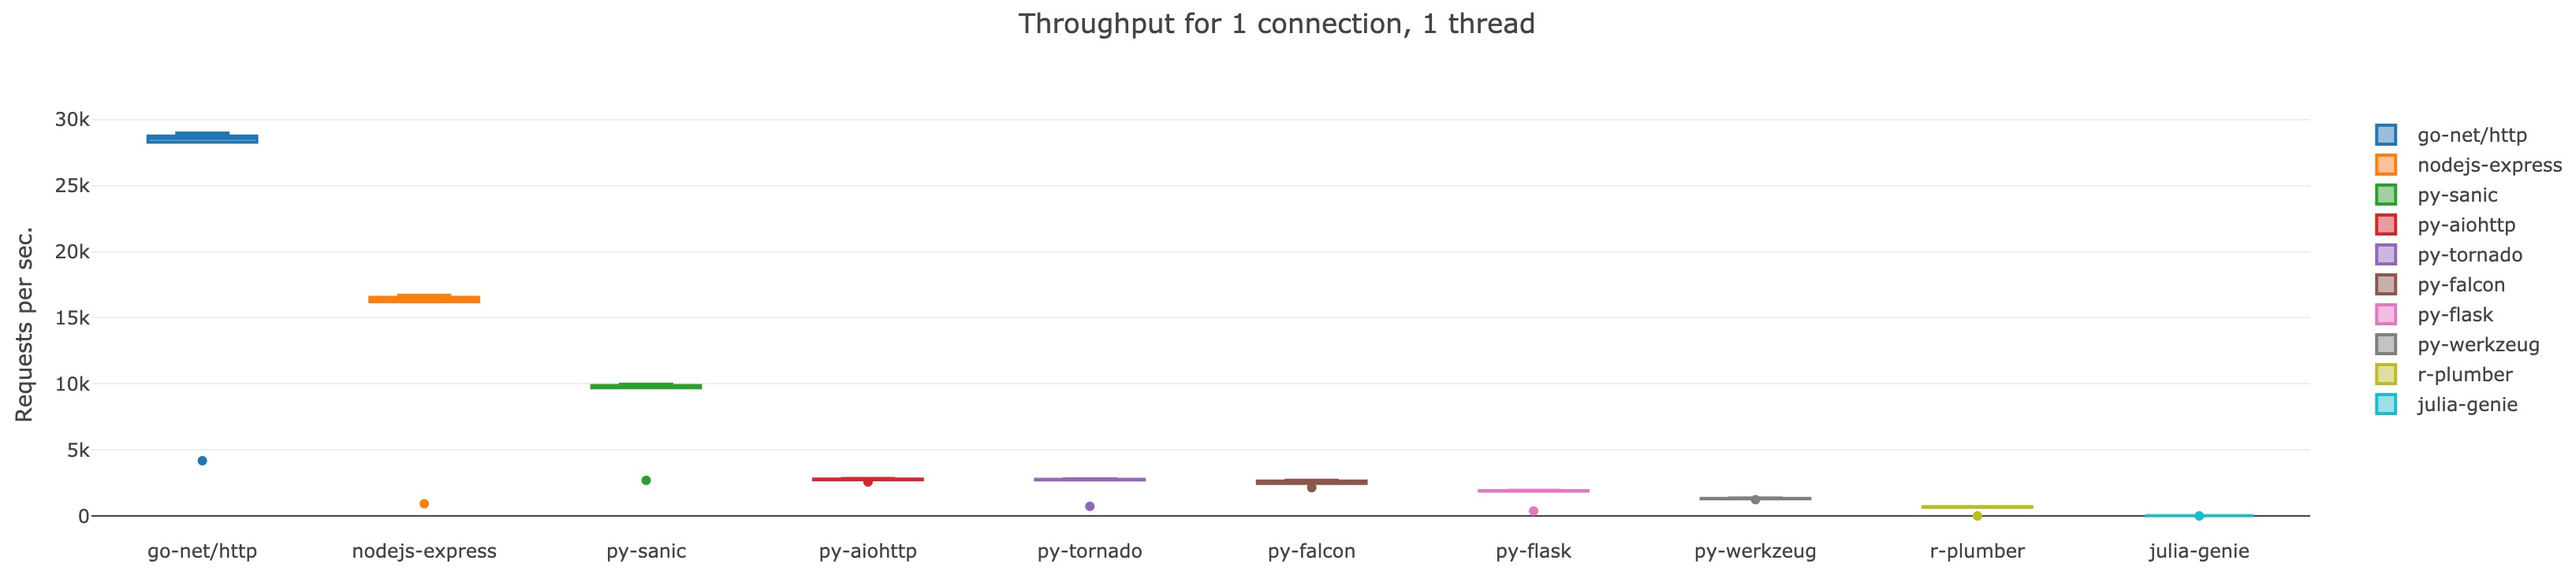
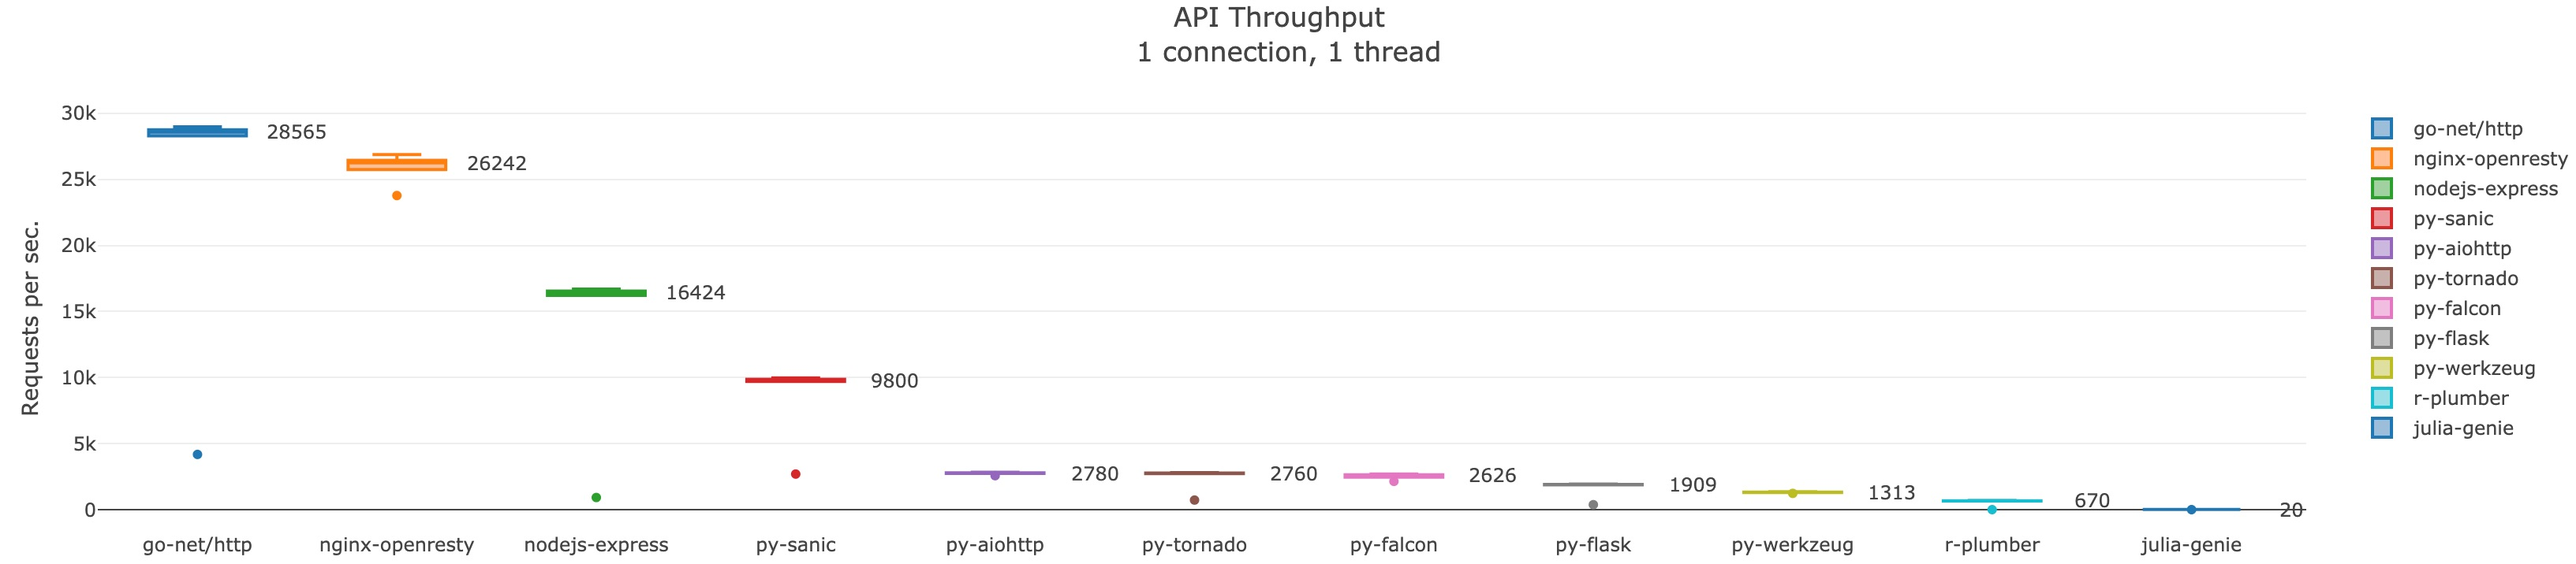
add dataviz

diff --git a/benchmark/dataviz/index.html b/benchmark/dataviz/index.html
@@ -3,87 +3,80 @@
 </head>
 
 <body>
-  <div id="myDiv"></div>
+  <div id="fig_throughput"></div>
   <script>
-    var traceGoLang = {
-      y: [4187, 28290, 28565, 28565, 28747, 28969],
-      type: 'box',
-      name: 'go-net/http',
+    var data = [{
+        name: 'go-net/http',
+        requests: [4187, 28290, 28565, 28565, 28747, 28969],
+      },
+      {
+        name: 'nginx-openresty',
+        requests: [23770, 25730, 26242, 26242, 26440, 26868],
+      },
+      {
+        name: 'nodejs-express',
+        requests: [929, 16210, 16424, 16424, 16540, 16696],
+      },
+      {
+        name: 'py-sanic',
+        requests: [2702, 9707, 9800, 9800, 9870, 9979],
+      },
+      {
+        name: 'py-aiohttp',
+        requests: [2580, 2750, 2780, 2780, 2800, 2838],
+      },
+      {
+        name: 'py-tornado',
+        requests: [735, 2740, 2760, 2760, 2780, 2818],
+      },
+      {
+        name: 'py-falcon',
+        requests: [2150, 2580, 2626, 2626, 2707],
+      },
+      {
+        name: 'py-flask',
+        requests: [385, 1880, 1909, 1909, 1919, 1949],
+      },
+      {
+        name: 'py-werkzeug',
+        requests: [1240, 1300, 1313, 1313, 1333, 1363],
+      },
+      {
+        name: 'r-plumber',
+        requests: [10, 660, 670, 670, 680, 707],
+      },
+      {
+        name: 'julia-genie',
+        requests: [10, 19, 20, 20, 20, 20],
+      },
+    ];
+    
+    var traces = [];
+    var annotations = [];
+    for (i = 0; i < data.length; i++) {
+       traces.push({
+         y: data[i].requests,
+         name: data[i].name,
+         type: 'box',
+       });
+       annotations.push({
+          x: i + .5,
+          y: data[i].requests[2],
+          text: data[i].requests[2],
+          showarrow: false,
+          align: "center",
+       });
     };
-
-    var traceNginx = {
-      y: [23770, 25730, 26242, 26242, 26440, 26868],
-      type: 'box',
-      name: 'nginx-openresty',
-    };
-
-    var traceNode = {
-      y: [929, 16210, 16424, 16424, 16540, 16696],
-      type: 'box',
-      name: 'nodejs-express',
-    };
-
-    var tracePySanic = {
-      y: [2702, 9707, 9800, 9800, 9870, 9979],
-      type: 'box',
-      name: 'py-sanic',
-    };
-
-    var tracePyAiohttp = {
-      y: [2580, 2750, 2780, 2780, 2800, 2838],
-      type: 'box',
-      name: 'py-aiohttp',
-    };
-
-    var tracePyTorando = {
-    y: [735, 2740, 2760, 2760, 2780, 2818],
-    type: 'box',
-    name: 'py-tornado',
-    };
-
-    var tracePyFalcon = {
-      y: [2150, 2580, 2626, 2626, 2707],
-      type: 'box',
-      name: 'py-falcon',
-    };
-
-    var tracePyFlask = {
-      y: [385, 1880, 1909, 1909, 1919, 1949],
-      type: 'box',
-      name: 'py-flask',
-    };
-
-    var tracePyWerkzeug = {
-      y: [1240, 1300, 1313, 1313, 1333, 1363],
-      type: 'box',
-      name: 'py-werkzeug',
-    };
-
-    var traceRPlumber = {
-      y: [10, 660, 670, 670, 707, 707],
-      type: 'box',
-      name: 'r-plumber',
-    };
-
-    var traceJulia = {
-      y: [10, 19, 20, 20, 20, 20],
-      type: 'box',
-      name: 'julia-genie',
-    };
-      
-    var data = [traceGoLang, traceNginx, traceNode, tracePySanic,
-                tracePyAiohttp, tracePyTorando, tracePyFalcon,
-                tracePyFlask, tracePyWerkzeug, traceRPlumber, traceJulia];
 
     var layout = {
-      title: 'Throughput for 1 connection, 1 thread',
+      title: 'API Throughput <br> 1 connection, 1 thread',
       yaxis: {
         title: 'Requests per sec.',
         zeroline: true,
       },
+      annotations: annotations
     };
 
-    Plotly.newPlot('myDiv', data, layout);
-
+    Plotly.newPlot('fig_throughput', traces, layout);
   </script>
 </body>
